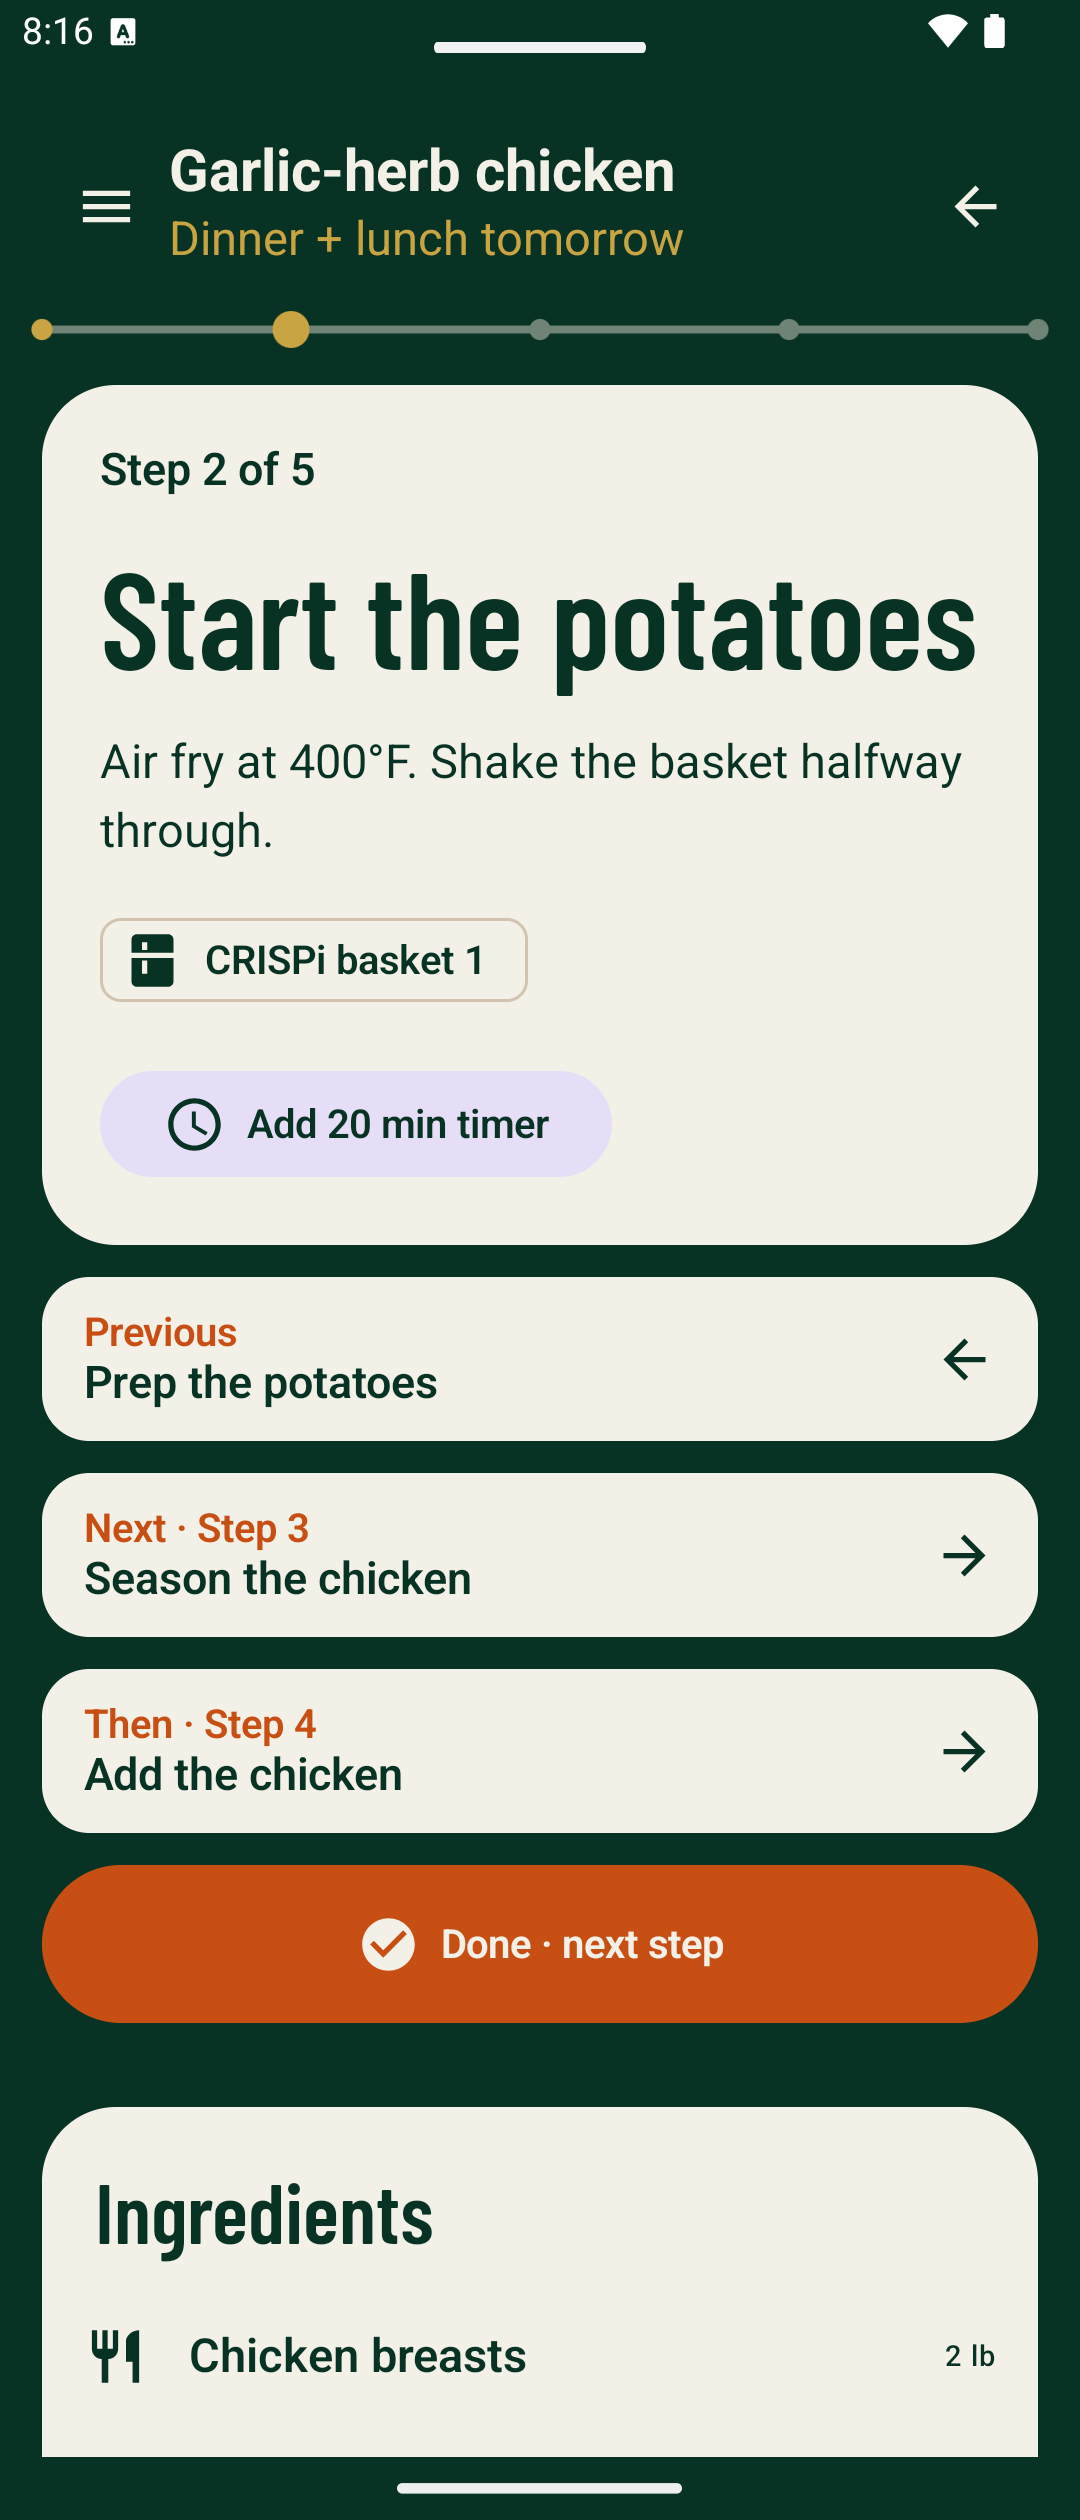
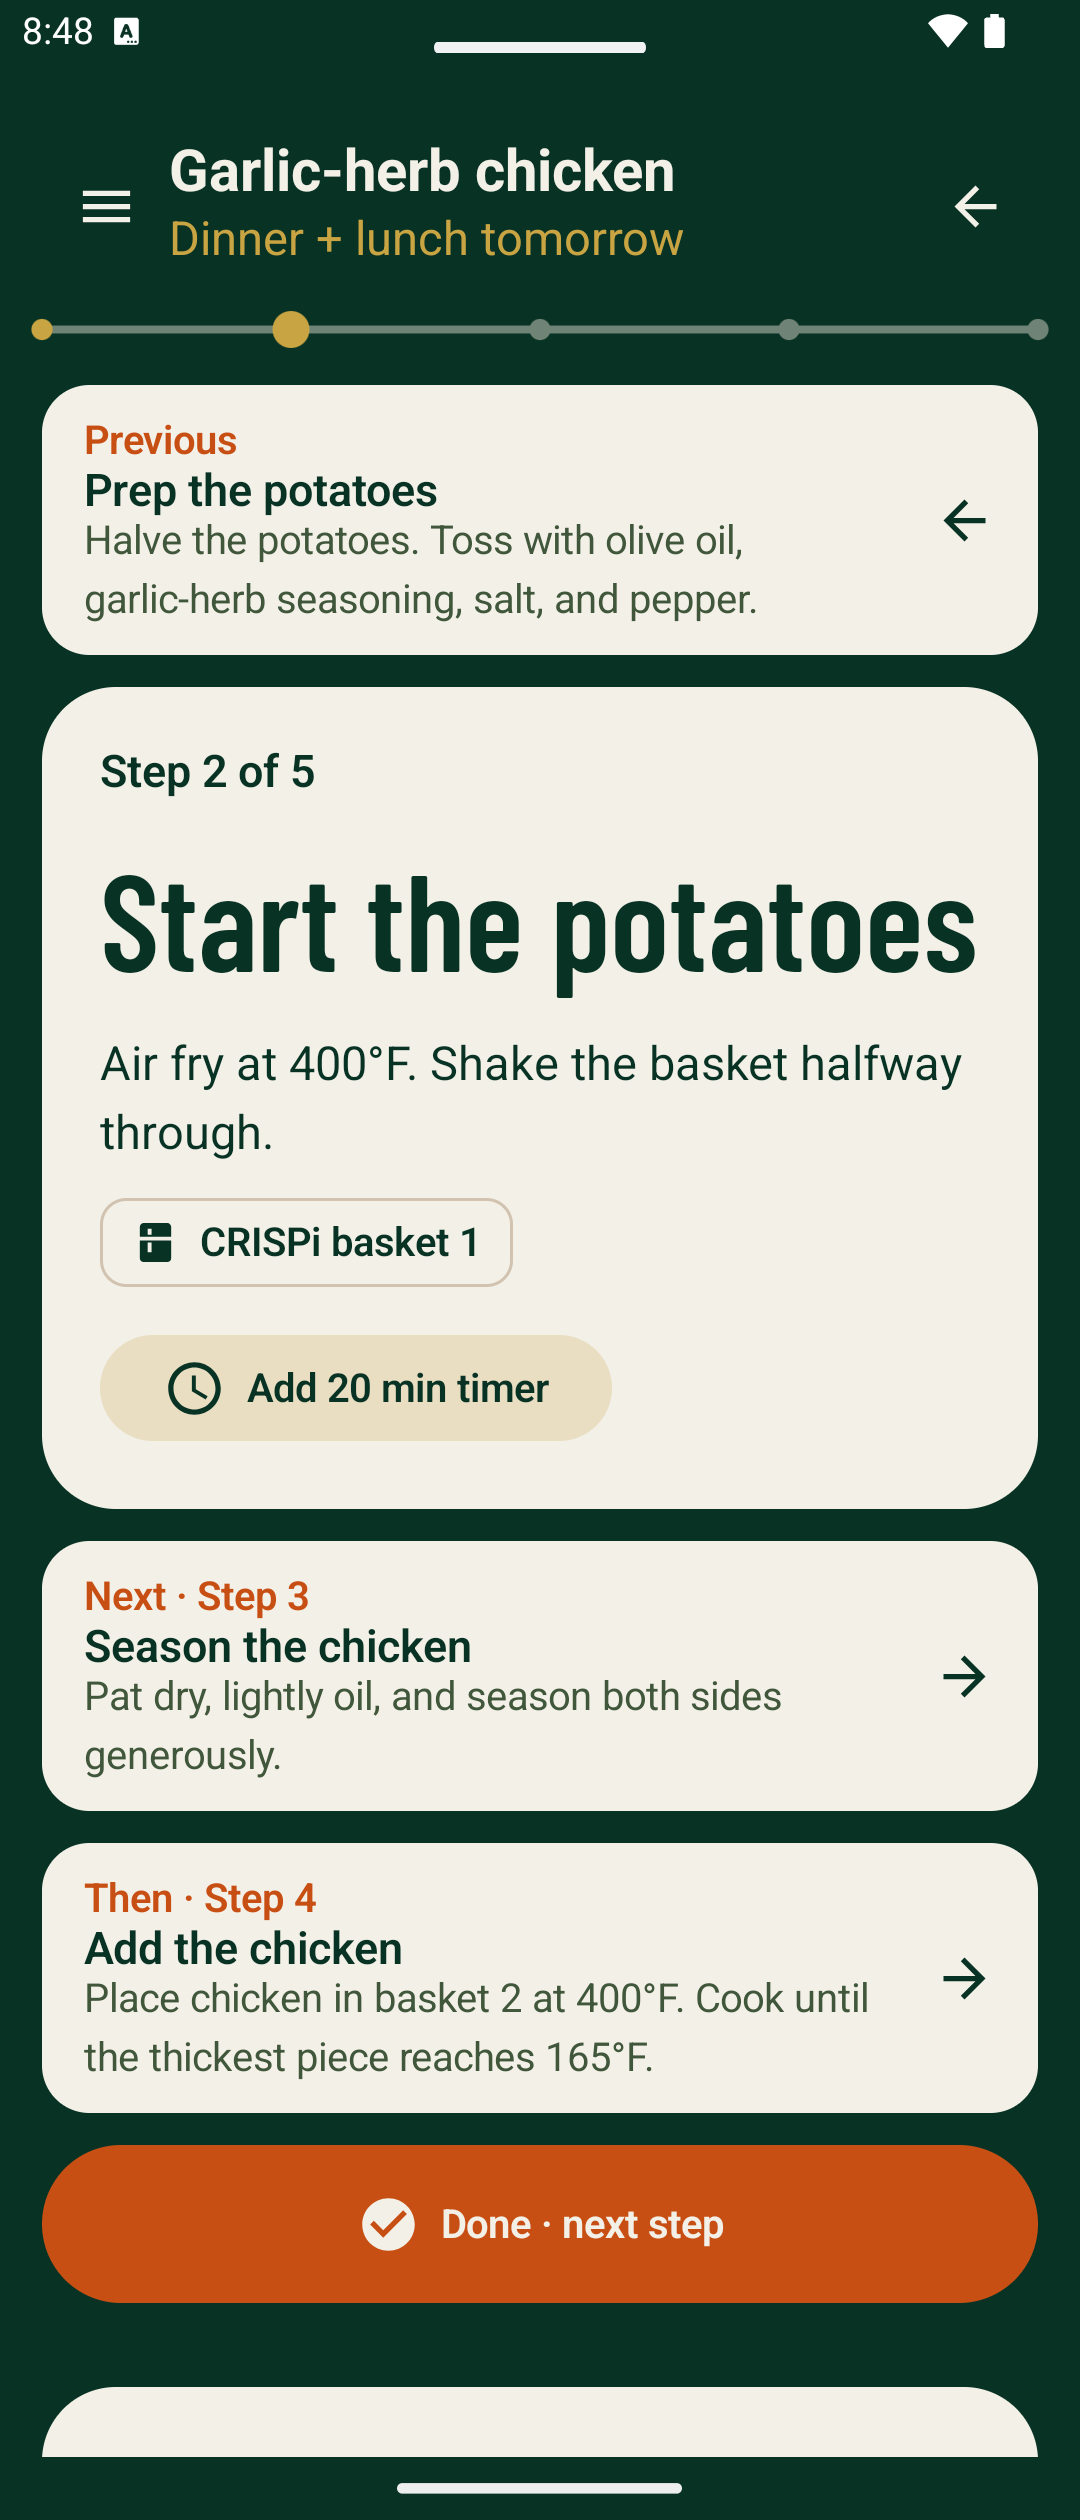
fix: clear Impeccable finish gate

diff --git a/app/src/main/java/com/mealos/ui/MealOsApp.kt b/app/src/main/java/com/mealos/ui/MealOsApp.kt
@@ -9,6 +9,9 @@ FORM: Mise en Place Board, first-ranked grounded direction, seed e36aa34b; appro
 FINISH: unreviewed and undocumented is unfinished; this build ends with the finish review, the verdict, DESIGN.md, and every shipping raster carrying its provenance
 */
 
+import android.app.Activity
+import android.content.Context
+import android.content.ContextWrapper
 import androidx.activity.compose.BackHandler
 import androidx.compose.animation.AnimatedContent
 import androidx.compose.animation.fadeIn
@@ -16,6 +19,7 @@ import androidx.compose.animation.fadeOut
 import androidx.compose.animation.togetherWith
 import androidx.compose.foundation.Canvas
 import androidx.compose.foundation.BorderStroke
+import androidx.compose.foundation.isSystemInDarkTheme
 import androidx.compose.foundation.background
 import androidx.compose.foundation.clickable
 import androidx.compose.foundation.layout.Arrangement
@@ -101,6 +105,7 @@ import androidx.compose.material3.TopAppBarDefaults
 import androidx.compose.material3.rememberDrawerState
 import androidx.compose.runtime.Composable
 import androidx.compose.runtime.LaunchedEffect
+import androidx.compose.runtime.SideEffect
 import androidx.compose.runtime.getValue
 import androidx.compose.runtime.mutableIntStateOf
 import androidx.compose.runtime.mutableStateOf
@@ -113,7 +118,9 @@ import androidx.compose.ui.Modifier
 import androidx.compose.ui.draw.clip
 import androidx.compose.ui.graphics.Color
 import androidx.compose.ui.graphics.vector.ImageVector
+import androidx.compose.ui.layout.onSizeChanged
 import androidx.compose.ui.platform.LocalDensity
+import androidx.compose.ui.platform.LocalView
 import androidx.compose.ui.semantics.contentDescription
 import androidx.compose.ui.semantics.semantics
 import androidx.compose.ui.text.font.FontWeight
@@ -123,6 +130,7 @@ import androidx.compose.ui.unit.Dp
 import androidx.compose.ui.unit.dp
 import androidx.compose.ui.unit.sp
 import androidx.lifecycle.compose.collectAsStateWithLifecycle
+import androidx.core.view.WindowCompat
 import androidx.window.layout.FoldingFeature
 import com.mealos.MealOsViewModel
 import com.mealos.data.GroceryAggregator
@@ -162,6 +170,8 @@ private sealed interface Route {
     data class Cooking(val recipeId: String, val portion: PortionMode) : Route
 }
 
+private enum class CookingPane { STEP, WORKSPACE }
+
 @OptIn(ExperimentalMaterial3Api::class)
 @Composable
 fun MealOsApp(viewModel: MealOsViewModel, fold: FoldingFeature?) {
@@ -170,6 +180,15 @@ fun MealOsApp(viewModel: MealOsViewModel, fold: FoldingFeature?) {
     val drawerState = rememberDrawerState(DrawerValue.Closed)
     val scope = rememberCoroutineScope()
     var route: Route by rememberSaveable(stateSaver = RouteSaver) { mutableStateOf(Route.Main(Destination.TODAY)) }
+    val view = LocalView.current
+    val darkTheme = isSystemInDarkTheme()
+
+    SideEffect {
+        view.context.findActivity()?.window?.let { window ->
+            WindowCompat.getInsetsController(window, view).isAppearanceLightStatusBars =
+                route is Route.Detail && !darkTheme
+        }
+    }
 
     BackHandler(route !is Route.Main || (route as? Route.Main)?.destination != Destination.TODAY) {
         route = when (val current = route) {
@@ -623,9 +642,49 @@ private fun CookingMode(
     val density = LocalDensity.current
     val stepScroll = rememberScrollState()
     val workspaceScroll = rememberScrollState()
+    val compactScroll = rememberScrollState()
+    var activePane by rememberSaveable { mutableStateOf(CookingPane.STEP) }
+    var compactStepHeightPx by rememberSaveable { mutableIntStateOf(0) }
+    var previousExpanded by rememberSaveable { mutableStateOf<Boolean?>(null) }
+    var pendingCompactRestore by remember { mutableStateOf(false) }
     val hingeWidth = with(density) { if (fold?.isSeparating == true) fold.bounds.width().toDp().coerceAtLeast(8.dp) else 8.dp }
     BoxWithConstraints(Modifier.fillMaxSize().background(Enamel).safeDrawingPadding()) {
         val expanded = maxWidth >= 720.dp
+
+        LaunchedEffect(stepScroll.isScrollInProgress) {
+            if (expanded && stepScroll.isScrollInProgress) activePane = CookingPane.STEP
+        }
+        LaunchedEffect(workspaceScroll.isScrollInProgress) {
+            if (expanded && workspaceScroll.isScrollInProgress) activePane = CookingPane.WORKSPACE
+        }
+        LaunchedEffect(expanded) {
+            val previous = previousExpanded
+            if (previous != null && previous != expanded) {
+                if (expanded) {
+                    if (compactScroll.value < compactStepHeightPx) {
+                        activePane = CookingPane.STEP
+                        stepScroll.scrollTo(compactScroll.value)
+                    } else {
+                        activePane = CookingPane.WORKSPACE
+                        workspaceScroll.scrollTo(compactScroll.value - compactStepHeightPx)
+                    }
+                } else {
+                    pendingCompactRestore = true
+                }
+            }
+            previousExpanded = expanded
+        }
+        LaunchedEffect(pendingCompactRestore, compactStepHeightPx) {
+            if (pendingCompactRestore && compactStepHeightPx > 0) {
+                val target = when (activePane) {
+                    CookingPane.STEP -> stepScroll.value
+                    CookingPane.WORKSPACE -> compactStepHeightPx + workspaceScroll.value
+                }
+                compactScroll.scrollTo(target)
+                pendingCompactRestore = false
+            }
+        }
+
         if (expanded) {
             Row(Modifier.fillMaxSize()) {
                 StepPane(recipe, portion, stepIndex, onStep = { stepIndex = it }, onBack, onMenu, onAddTimer = { seconds -> viewModel.addTimer(timerLabel(step.title), seconds) }, Modifier.weight(1f).verticalScroll(stepScroll))
@@ -633,8 +692,17 @@ private fun CookingMode(
                 WorkspacePane(recipe, portion, timers, pantry, viewModel, Modifier.weight(1f).verticalScroll(workspaceScroll))
             }
         } else {
-            Column(Modifier.fillMaxSize().verticalScroll(stepScroll).padding(bottom = 20.dp)) {
-                StepPane(recipe, portion, stepIndex, onStep = { stepIndex = it }, onBack, onMenu, onAddTimer = { seconds -> viewModel.addTimer(timerLabel(step.title), seconds) }, Modifier.fillMaxWidth())
+            Column(Modifier.fillMaxSize().verticalScroll(compactScroll).padding(bottom = 20.dp)) {
+                StepPane(
+                    recipe,
+                    portion,
+                    stepIndex,
+                    onStep = { stepIndex = it },
+                    onBack,
+                    onMenu,
+                    onAddTimer = { seconds -> viewModel.addTimer(timerLabel(step.title), seconds) },
+                    Modifier.fillMaxWidth().onSizeChanged { compactStepHeightPx = it.height }
+                )
                 WorkspacePane(recipe, portion, timers, pantry, viewModel, Modifier.fillMaxWidth())
             }
         }
@@ -663,6 +731,10 @@ private fun StepPane(
             IconButton(onClick = onBack) { Icon(Icons.AutoMirrored.Filled.ArrowBack, contentDescription = "Exit cooking mode", tint = Cream) }
         }
         RecipeProgress(stepIndex, recipe.steps.size)
+        if (stepIndex > 0) {
+            val previous = recipe.steps[stepIndex - 1]
+            StepPreview("Previous", previous.title, previous.instruction, Icons.AutoMirrored.Filled.ArrowBack) { onStep(stepIndex - 1) }
+        }
         Surface(color = Cream, contentColor = Enamel, shape = RoundedCornerShape(28.dp), modifier = Modifier.fillMaxWidth()) {
             Column(Modifier.padding(22.dp), verticalArrangement = Arrangement.spacedBy(14.dp)) {
                 Text("Step ${stepIndex + 1} of ${recipe.steps.size}", style = MaterialTheme.typography.titleMedium)
@@ -685,9 +757,8 @@ private fun StepPane(
                 }
             }
         }
-        if (stepIndex > 0) StepPreview("Previous", recipe.steps[stepIndex - 1].title, Icons.AutoMirrored.Filled.ArrowBack) { onStep(stepIndex - 1) }
-        recipe.steps.getOrNull(stepIndex + 1)?.let { StepPreview("Next · Step ${stepIndex + 2}", it.title, Icons.AutoMirrored.Filled.ArrowForward) { onStep(stepIndex + 1) } }
-        recipe.steps.getOrNull(stepIndex + 2)?.let { StepPreview("Then · Step ${stepIndex + 3}", it.title, Icons.AutoMirrored.Filled.ArrowForward) { onStep(stepIndex + 2) } }
+        recipe.steps.getOrNull(stepIndex + 1)?.let { StepPreview("Next · Step ${stepIndex + 2}", it.title, it.instruction, Icons.AutoMirrored.Filled.ArrowForward) { onStep(stepIndex + 1) } }
+        recipe.steps.getOrNull(stepIndex + 2)?.let { StepPreview("Then · Step ${stepIndex + 3}", it.title, it.instruction, Icons.AutoMirrored.Filled.ArrowForward) { onStep(stepIndex + 2) } }
         Button(
             onClick = { if (stepIndex < recipe.steps.lastIndex) onStep(stepIndex + 1) },
             enabled = stepIndex < recipe.steps.lastIndex,
@@ -795,12 +866,19 @@ private fun RecipeProgress(stepIndex: Int, count: Int) {
 }
 
 @Composable
-private fun StepPreview(label: String, title: String, icon: ImageVector, onClick: () -> Unit) {
+private fun StepPreview(label: String, title: String, description: String, icon: ImageVector, onClick: () -> Unit) {
     Surface(color = Cream, contentColor = Enamel, shape = RoundedCornerShape(18.dp), modifier = Modifier.fillMaxWidth().clickable(onClick = onClick)) {
         Row(Modifier.padding(horizontal = 16.dp, vertical = 12.dp), verticalAlignment = Alignment.CenterVertically) {
             Column(Modifier.weight(1f)) {
                 Text(label, style = MaterialTheme.typography.labelLarge, color = ActionOrange)
                 Text(title, style = MaterialTheme.typography.titleMedium)
+                Text(
+                    description,
+                    style = MaterialTheme.typography.bodyMedium,
+                    color = Color(0xFF41573B),
+                    maxLines = 2,
+                    overflow = TextOverflow.Ellipsis
+                )
             }
             Icon(icon, contentDescription = null)
         }
@@ -878,3 +956,9 @@ private fun timerLabel(stepTitle: String): String = stepTitle
     .removePrefix("Start the ")
     .removePrefix("Cook the ")
     .replaceFirstChar { if (it.isLowerCase()) it.titlecase(Locale.getDefault()) else it.toString() }
+
+private tailrec fun Context.findActivity(): Activity? = when (this) {
+    is Activity -> this
+    is ContextWrapper -> baseContext.findActivity()
+    else -> null
+}

diff --git a/.impeccable/surfaces/app-src-main-java-com-mealos-ui-mealosapp-kt.md b/.impeccable/surfaces/app-src-main-java-com-mealos-ui-mealosapp-kt.md
@@ -18,7 +18,7 @@ related_targets: []
 - One home cook planning familiar meals, shopping once, and cooking with messy hands.
 - The active step, ingredients, and timers carry equal importance when unfolded.
 - Navigation stays hidden until the user opens a Material drawer, preserving horizontal workspace.
-- Cooking mode provides a compact previous-step preview plus next-step previews without changing timer state.
+- Cooking mode provides a compact previous-step preview immediately above the current step, plus next-step previews below it; every preview includes supporting instruction text and navigates without changing timer state.
 - The cover screen reflows to one pane; fold/unfold keeps scroll, timers, notes, and current step.
 - Android system Back, edge-to-edge insets, 48 dp targets, dark theme, large type, and screen-reader labels are mandatory.
 
@@ -31,7 +31,7 @@ Approved comp: `.impeccable/mocks/mise-en-place-3.webp`.
 Approved modifications:
 
 - Remove the permanently visible navigation rail; use a hidden Material navigation drawer.
-- Add a compact previous-step preview above the next-step previews.
+- Add a compact previous-step preview immediately above the current-step tray, and include concise instruction descriptions in previous and next previews.
 - Do not require bespoke recipe illustrations. Replace the tray drawing with reusable ingredient/equipment pictograms and code-native instruction content.
 
 ## Sampled visual system
@@ -55,8 +55,8 @@ Approved modifications:
 | Recipe identity header | Semantic Compose text and reusable ingredient icon | Name, portion mode, favorite state, and overflow actions. |
 | Overall progress rule | Compose Canvas/ProgressIndicator | Thin painted measurement rule with five discrete positions. |
 | Current-step tray | Semantic Compose | Largest cream field; step number, instruction, equipment note, and completion action. |
-| Previous-step preview | Semantic Compose | One compact expandable row labeled “Previous”; never steals focus. |
-| Next-step previews | Semantic Compose | Up to two compact rows with step numbers and forward affordances. |
+| Previous-step preview | Semantic Compose | One compact row labeled “Previous,” with title and instruction preview, immediately above the current step. |
+| Next-step previews | Semantic Compose | Up to two compact rows with step numbers, instruction previews, and forward affordances. |
 | Ingredient tray | LazyColumn | Normalized ingredient name, scaled quantity, pantry/check state, and reusable pictogram. |
 | Timer shelf | Compose state and foreground notification integration | Two simultaneous large timers with pause and +1 minute controls. |
 | Reusable pictograms | Material Symbols or simple code-native icons | Ingredient-category and equipment icons, not bespoke recipe drawings. |

diff --git a/DESIGN.md b/DESIGN.md
@@ -246,7 +246,7 @@ The silhouette vocabulary is generous but not uniform. Large prep trays and time
 
 ### Step Preview
 
-A compact cream row with 18 dp corners and 12 × 16 dp padding. Its orange label identifies Previous, Next, or Then while the title remains deep enamel. Previous and upcoming steps are navigational previews and do not mutate timer state.
+A compact cream row with 18 dp corners and 12 × 16 dp padding. Its orange label identifies Previous, Next, or Then; the deep-enamel title is followed by up to two lines of supporting instruction text. When present, Previous sits immediately above the current-step tray so the cook can confirm context before acting. Upcoming previews follow the current step. These rows navigate without mutating timer state.
 
 ### Timer Control
 
